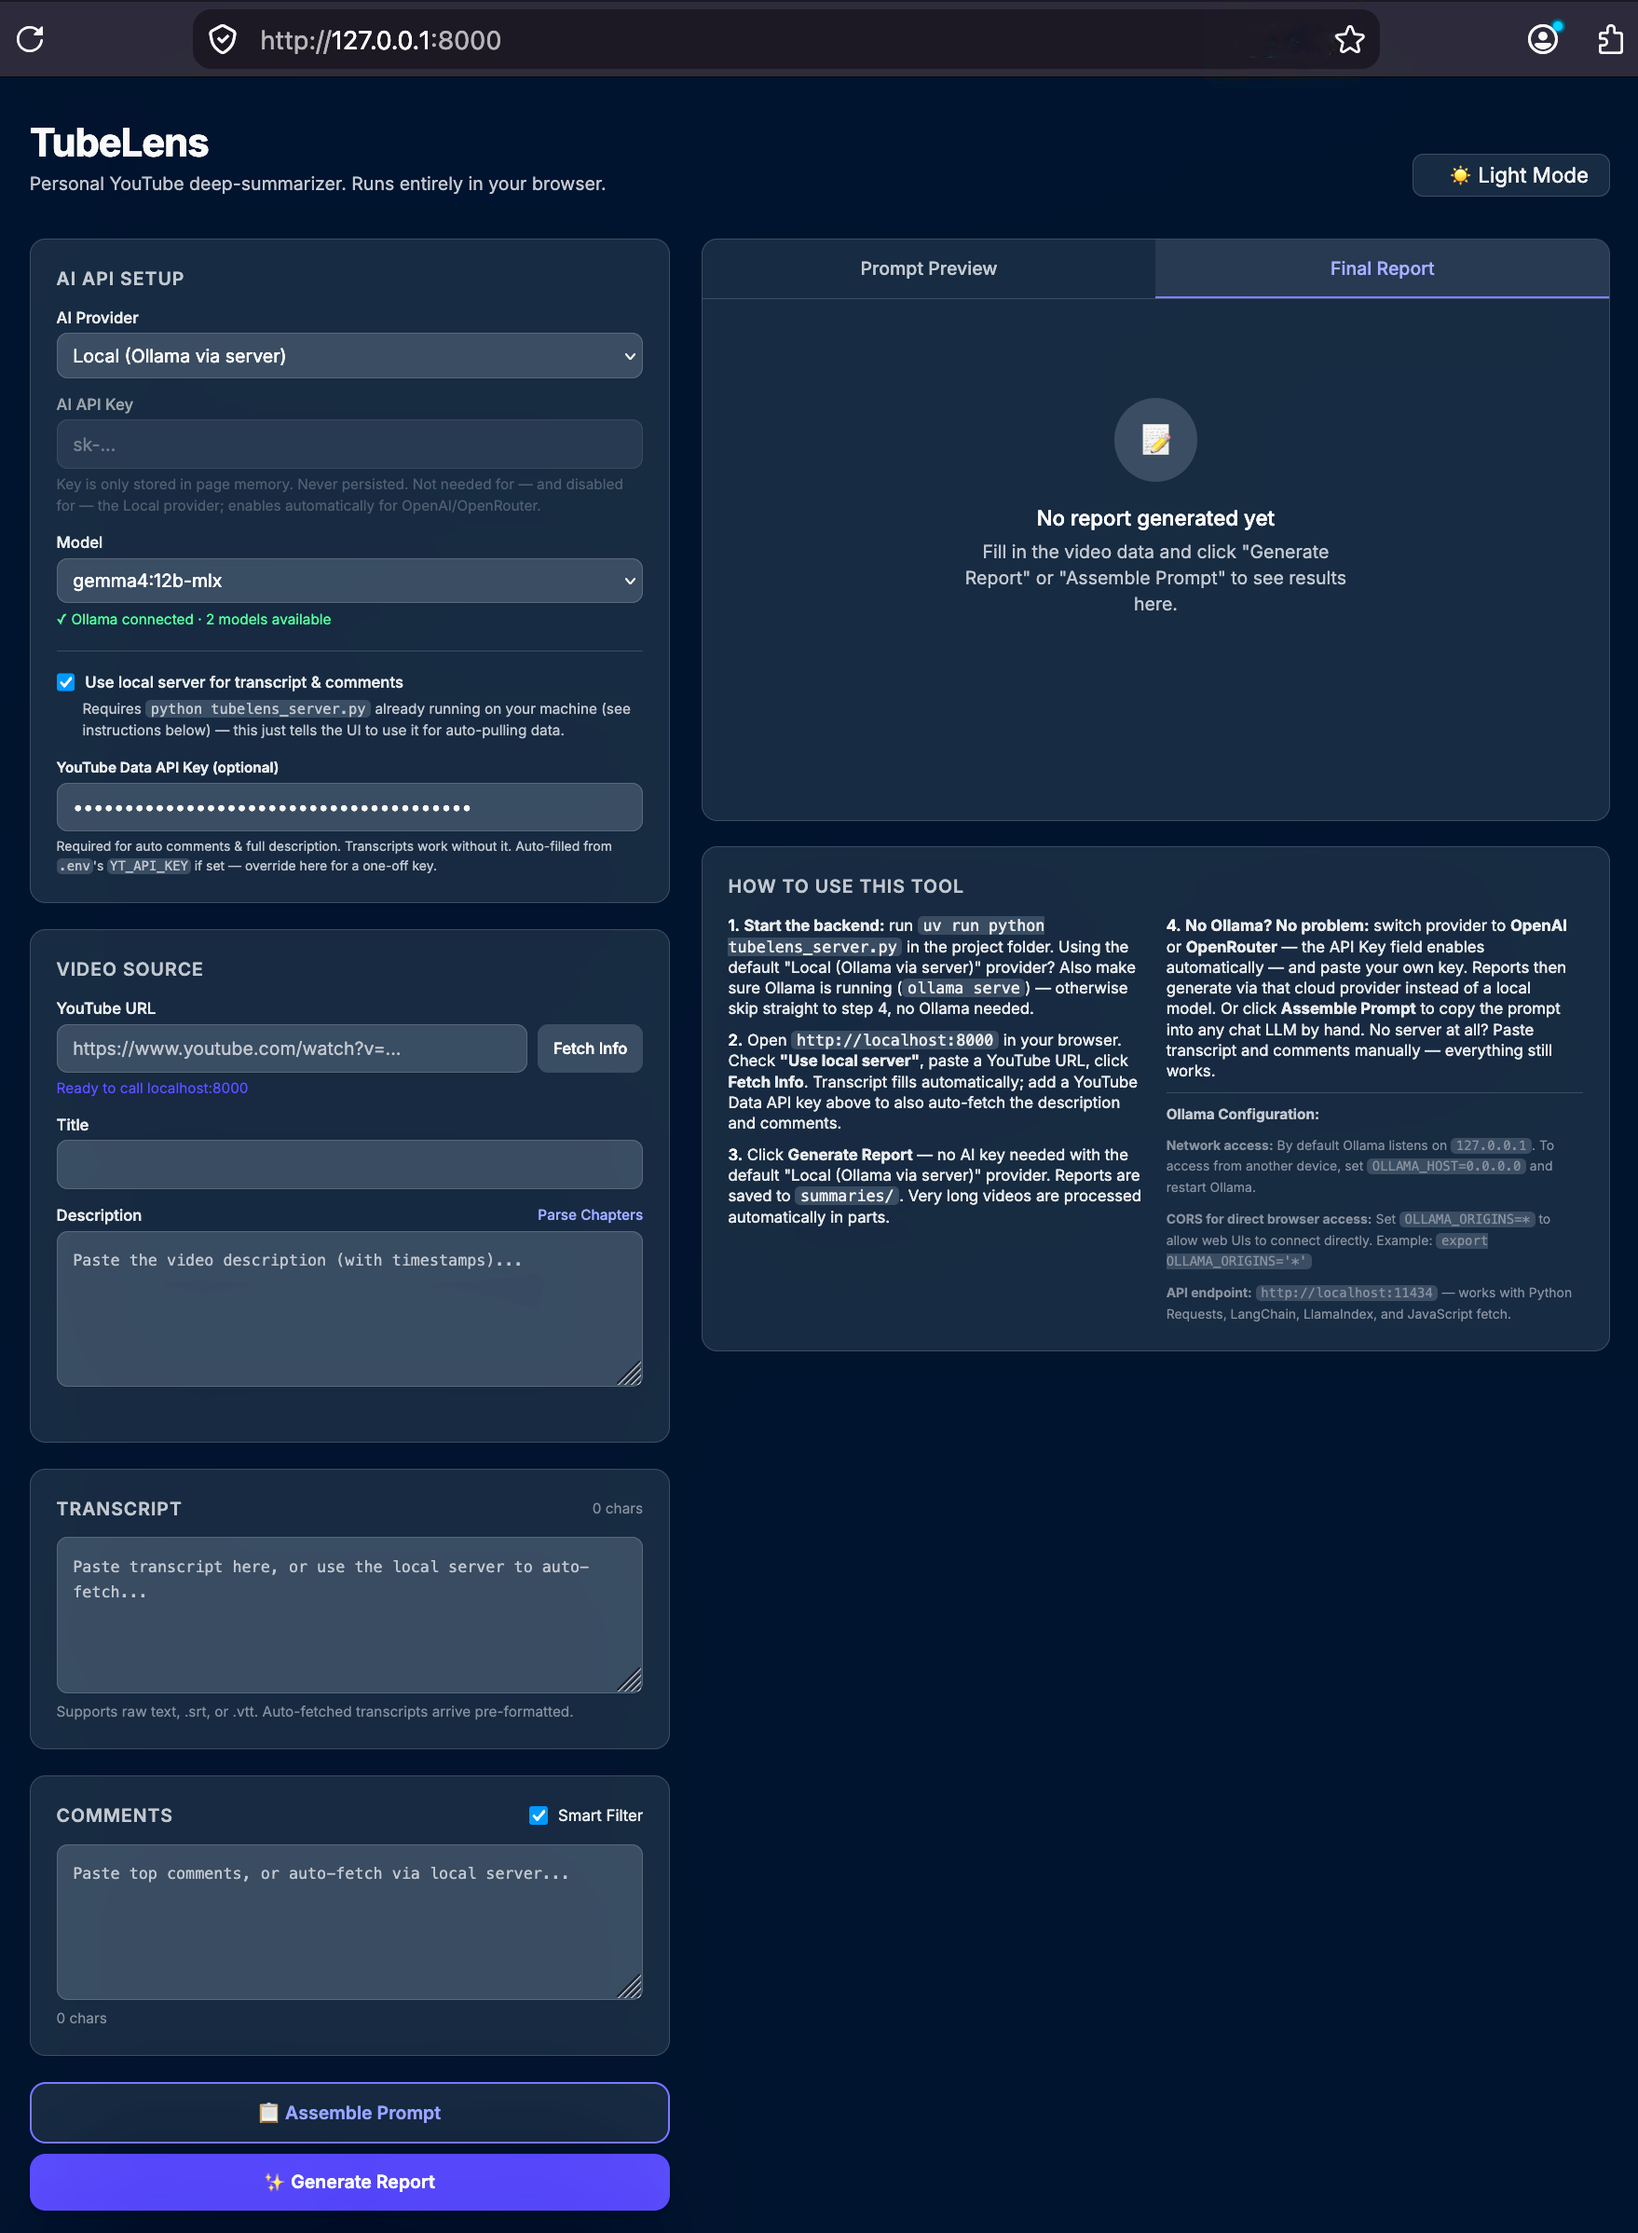
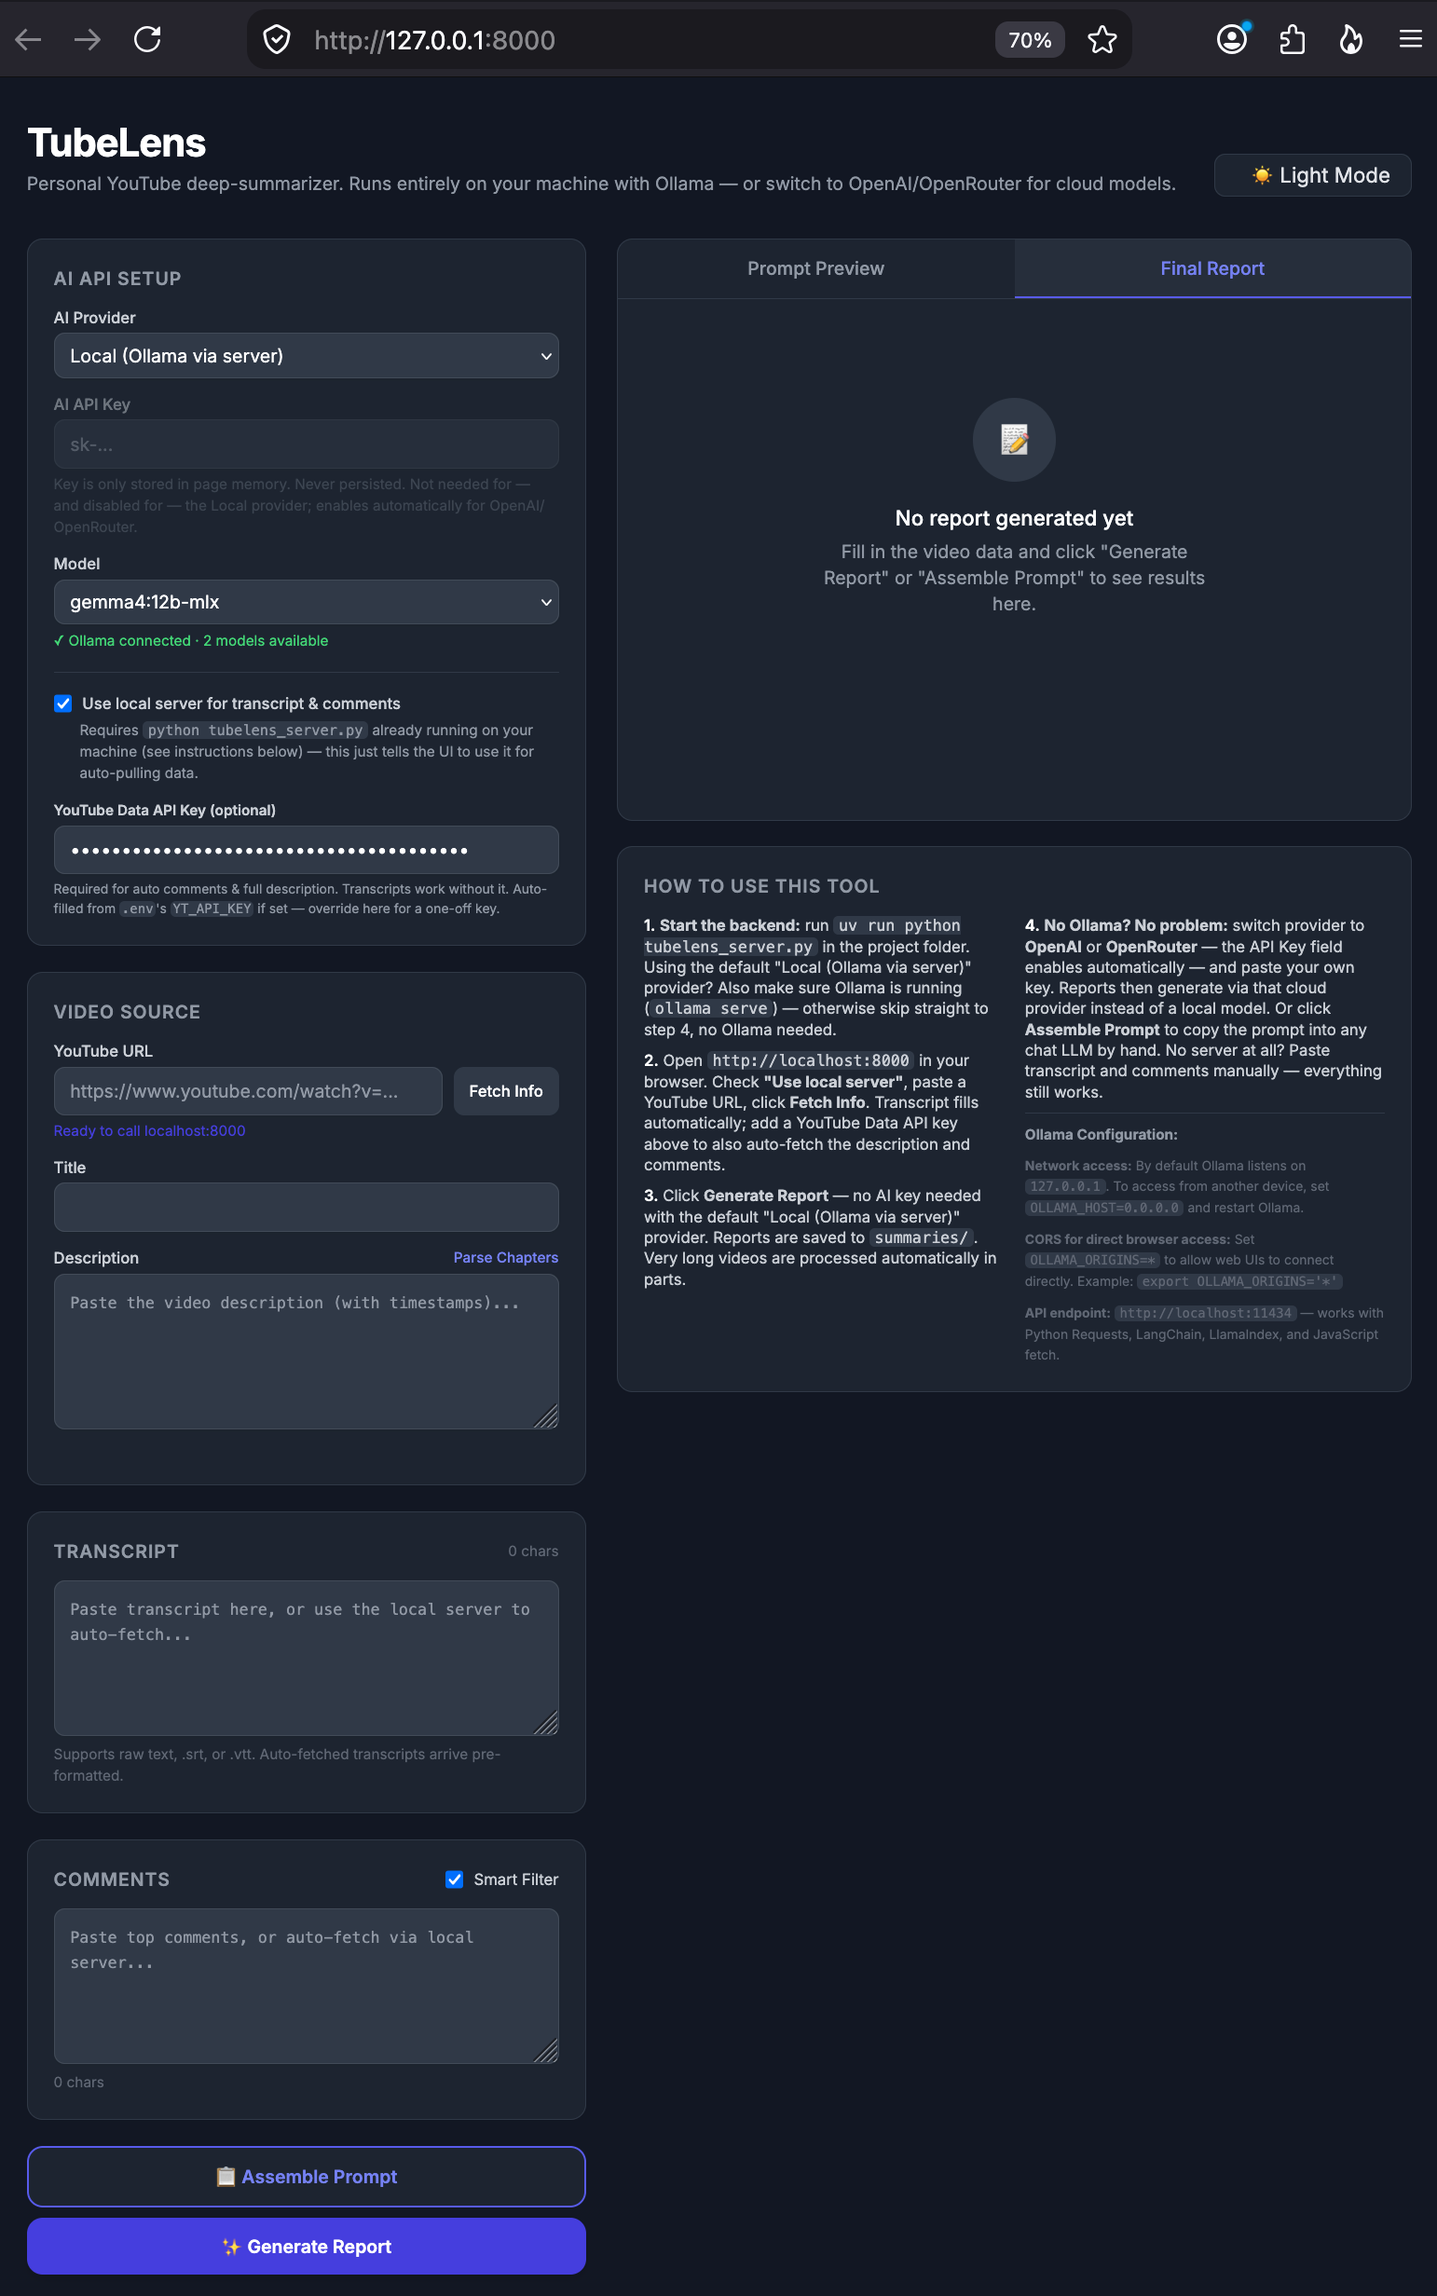
style: update UI screenshots and refine header component

diff --git a/frontend/src/components/header.js b/frontend/src/components/header.js
@@ -3,7 +3,7 @@ export function mountHeader(container) {
     <div class="mb-8 flex flex-col md:flex-row md:items-end md:justify-between gap-4">
       <div>
         <h1 class="text-3xl font-bold text-gray-900 dark:text-white tracking-tight">TubeLens</h1>
-        <p class="text-gray-500 dark:text-gray-400 text-sm mt-1">Personal YouTube deep-summarizer. Runs entirely in your browser.</p>
+        <p class="text-gray-500 dark:text-gray-400 text-sm mt-1">Personal YouTube deep-summarizer. Runs entirely on your machine with Ollama — or switch to OpenAI/OpenRouter for cloud models.</p>
       </div>
       <div class="flex items-center gap-3 text-xs text-gray-500 dark:text-gray-400 bg-white dark:bg-gray-800 px-3 py-2 rounded-lg shadow-sm border border-gray-200 dark:border-gray-700">
         <button id="darkModeToggle" class="text-gray-400 dark:text-gray-200 ml-3">🌙 Dark Mode</button>
